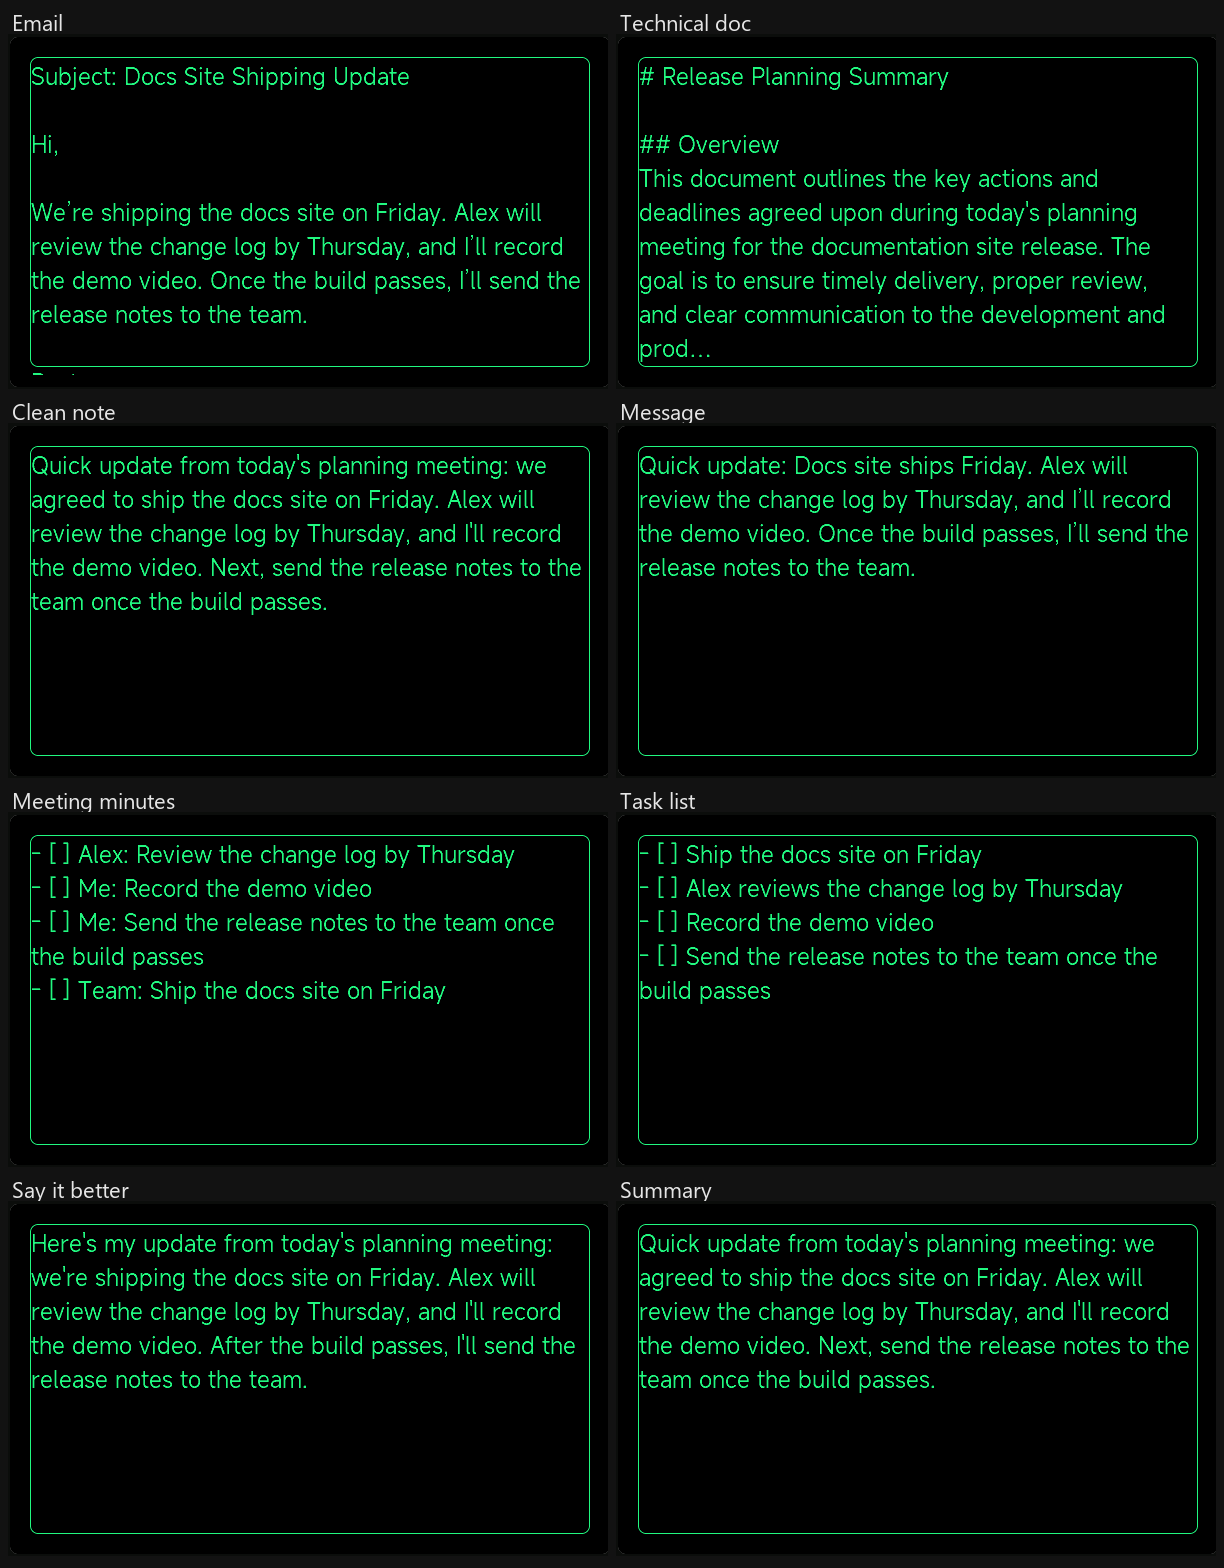
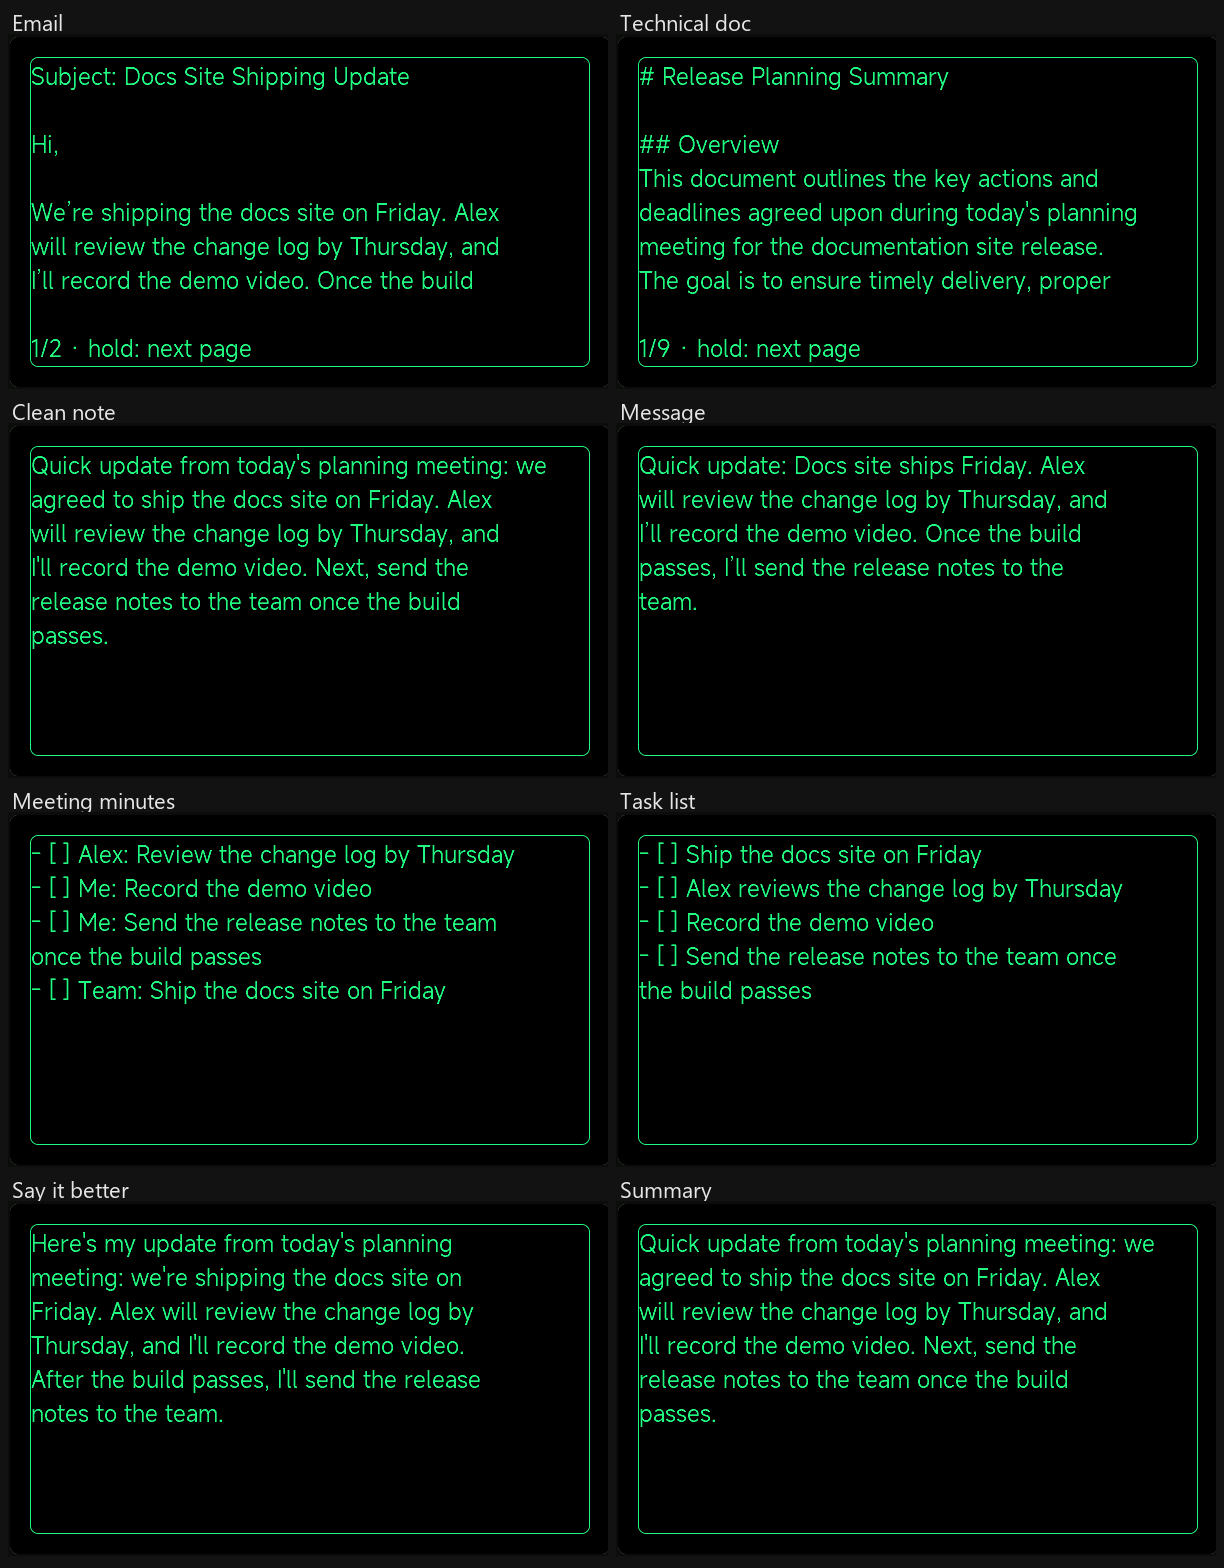
Show Scribe's paged results on the glasses
The glasses app now pages long results (Anvil Scribe plugin 0.6.2): a footer
such as "1/2 · hold: next page", and Hold steps through the pages. Recaptures
the email, the all-profiles sheet and the custom-profile result to match, adds
page 2 of the email, and describes the paging.

diff --git a/docs/journeys/anvil-scribe.md b/docs/journeys/anvil-scribe.md
@@ -36,16 +36,20 @@ double-press to cancel, which saves nothing.
 Scribe saves the raw transcript first, exactly as you said it. Then pick a
 profile, choose a model and tap Rewrite. Each rewrite is added below the
 transcript with its own Copy button. The latest result also shows on the
-glasses, and holding the glasses button brings it back.
+glasses. A long result is split into pages with a footer such as "1/2 · hold:
+next page". Holding the glasses button shows the next page; when no result is
+showing, it brings back the latest one.
 
 ![The saved memo: the 0:27 recording, the raw transcript, and the eight rewrite profiles.](../assets/scribe/phone-saved.png)
 ![The rewrite panel with the model picker and two results, an email and a technical document.](../assets/scribe/phone-rewrite.png)
 
-![The glasses display showing the email rewrite: "Subject: Docs Site Shipping Update" followed by the message.](../assets/scribe/hud-email.png)
+![Page 1 of the email rewrite on the glasses: "Subject: Docs Site Shipping Update" and the opening of the message, with the footer "1/2 · hold: next page".](../assets/scribe/hud-email.png)
+![Page 2 of the email: the end of the message and "Best,", with the footer "2/2 · hold: back to start".](../assets/scribe/hud-email-page2.png)
 
-The same memo, rewritten by each built-in profile:
+The same memo, rewritten by each built-in profile. Each image shows the first
+page:
 
-![Eight glasses displays, one per built-in profile: Email, Technical doc, Clean note, Message, Meeting minutes, Task list, Say it better and Summary.](../assets/scribe/hud-profiles.png)
+![Eight glasses displays, one per built-in profile: Email (page 1 of 2), Technical doc (page 1 of 9), Clean note, Message, Meeting minutes, Task list, Say it better and Summary.](../assets/scribe/hud-profiles.png)
 
 ### History
 
@@ -66,7 +70,7 @@ description, a prompt and a default model.
 
 A saved custom profile appears next to the built-ins as a rewrite option:
 
-![The glasses display showing the memo rewritten by the custom Standup update profile, with Yesterday and Today sections.](../assets/scribe/hud-custom-profile.png)
+![The glasses display showing the memo rewritten by the custom Standup update profile, with Yesterday and Today sections and the footer "1/2 · hold: next page".](../assets/scribe/hud-custom-profile.png)
 
 ## Go deeper
 

diff --git a/docs/MEMOMIND-GLASSES.md b/docs/MEMOMIND-GLASSES.md
@@ -34,7 +34,7 @@ covers every tab and profile.
 
 ![The Anvil Scribe phone app showing the rewrite profiles (Email, Technical doc, Clean note, Message, Meeting minutes, Task list, Say it better, Summary), the model picker, and the memo rewritten as an email.](assets/scribe/phone-rewrite.png)
 
-![The glasses display showing the email: "Subject: Docs Site Shipping Update" followed by the message.](assets/scribe/hud-email.png)
+![The glasses display showing page 1 of the email, "Subject: Docs Site Shipping Update", with the footer "1/2 · hold: next page".](assets/scribe/hud-email.png)
 
 **Anvil Agent.** An agent asks the wearer a question and waits for the answer.
 
